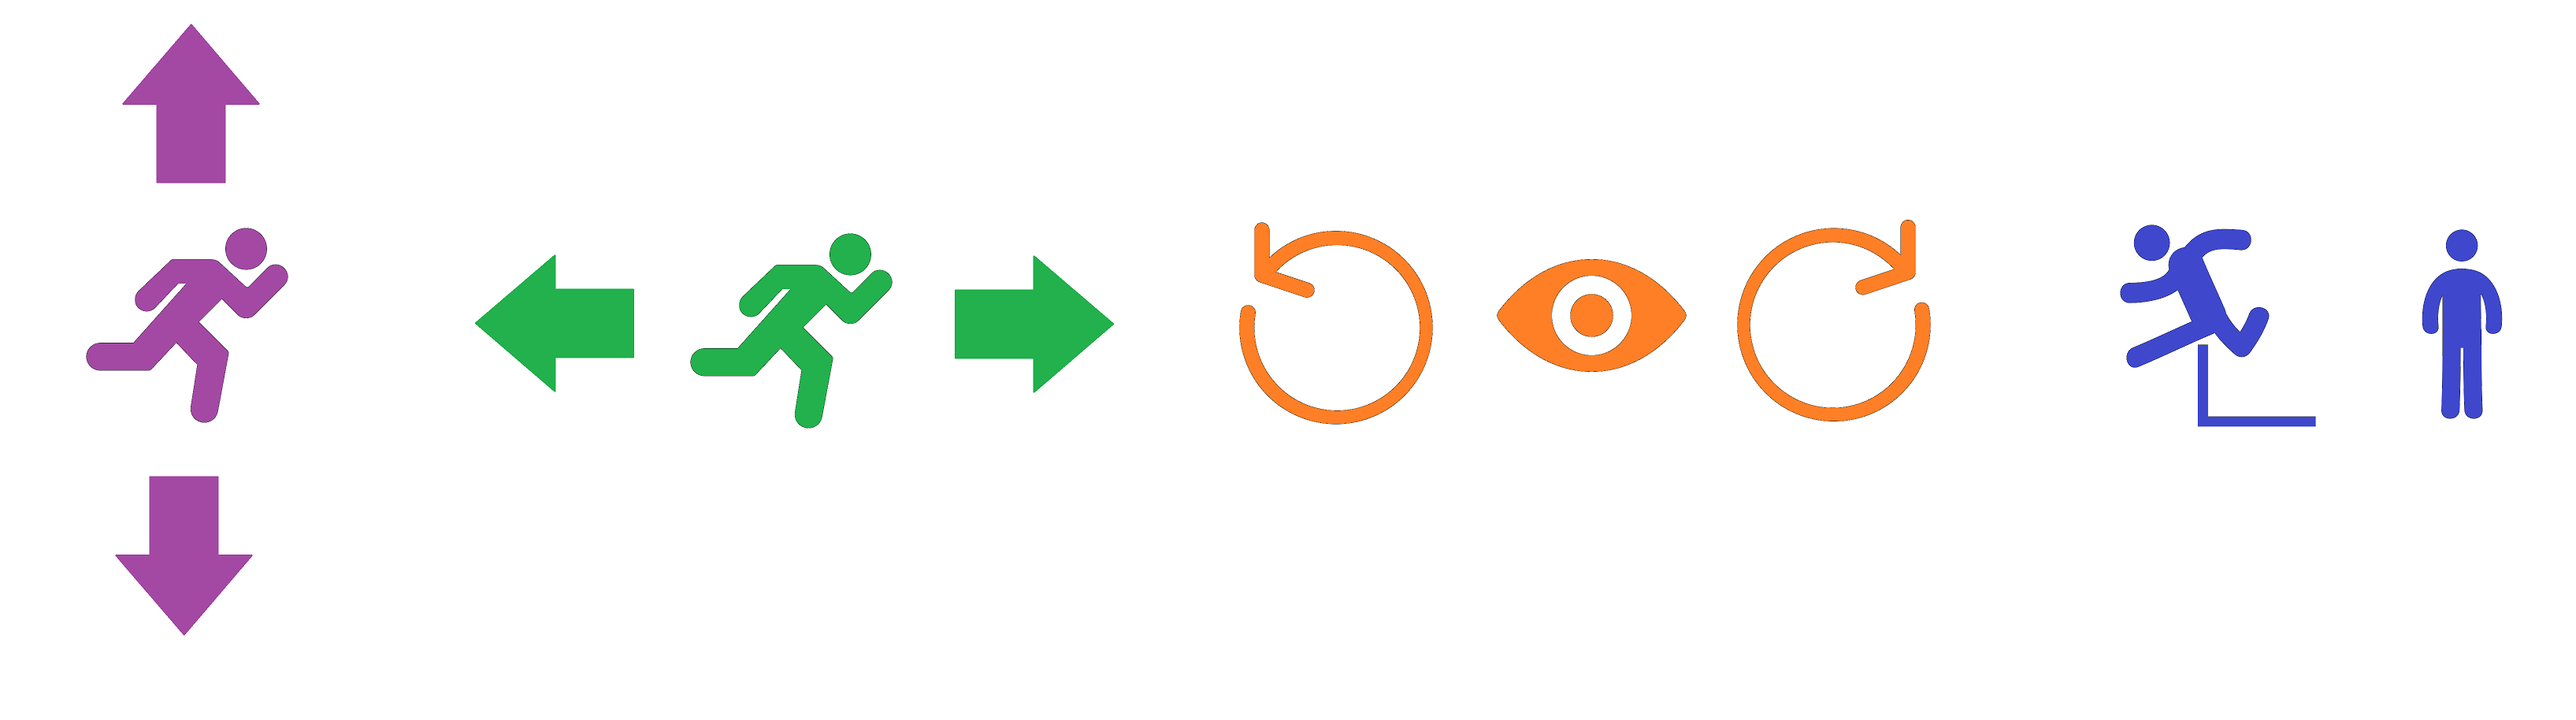
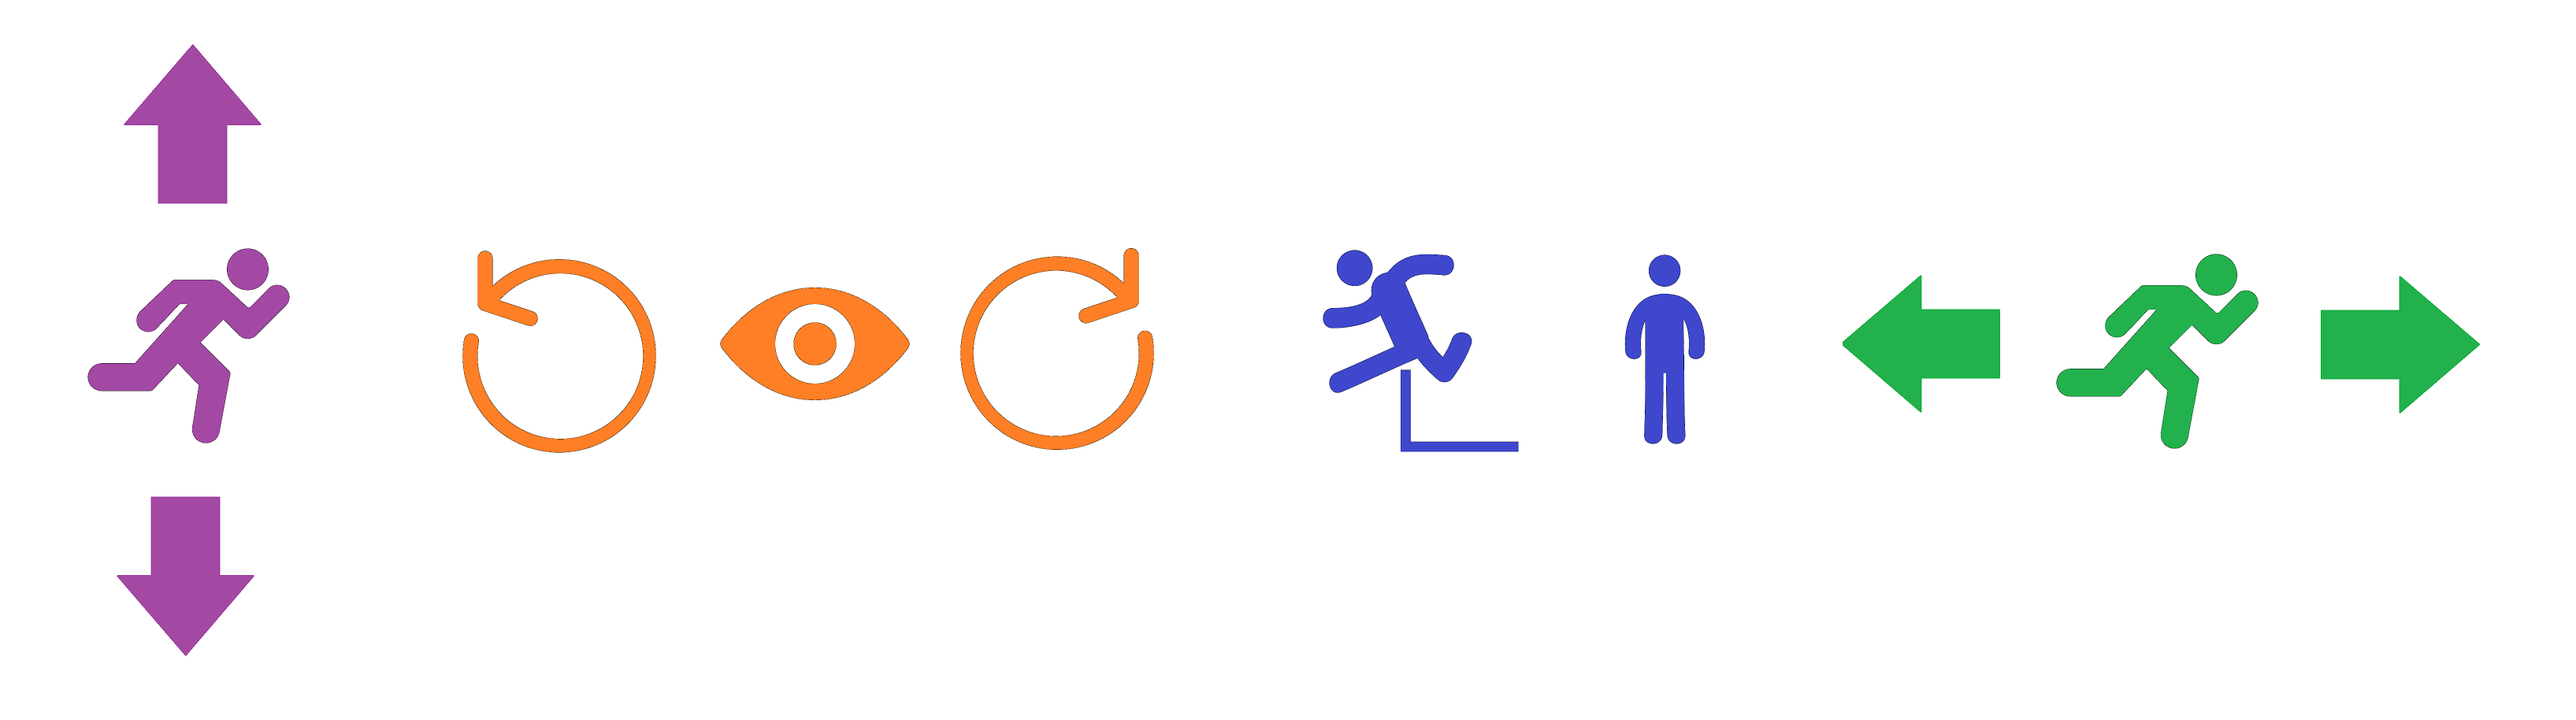
Add action interpreter to Obstacle Tower 3

diff --git a/assets/scripts/action_interpreter.js b/assets/scripts/action_interpreter.js
@@ -1,0 +1,68 @@
+// Used in 2019-01-31-obstacle-tower-3.md
+const ACTION_TO_DESCRIPTION = {
+    '0 0 0 0': 'Do nothing.',
+    '0 0 0 1': 'Move right.',
+    '0 0 0 2': 'Move left.',
+    '0 0 1 0': 'Jump.',
+    '0 0 1 1': 'Jump right.',
+    '0 0 1 2': 'Jump left.',
+    '0 1 0 0': 'Turn camera clockwise.',
+    '0 1 0 1': 'Turn camera clockwise while moving right.',
+    '0 1 0 2': 'Turn camera clockwise while moving left.',
+    '0 1 1 0': 'Turn camera clockwise while jumping.',
+    '0 1 1 1': 'Turn camera clockwise while jumping right.',
+    '0 1 1 2': 'Turn camera clockwise while jumping left.',
+    '0 2 0 0': 'Turn camera counterclockwise.',
+    '0 2 0 1': 'Turn camera counterclockwise while moving right.',
+    '0 2 0 2': 'Turn camera counterclockwise while moving left.',
+    '0 2 1 0': 'Turn camera counterclockwise while jumping.',
+    '0 2 1 1': 'Turn camera counterclockwise while jumping right.',
+    '0 2 1 2': 'Turn camera counterclockwise while jumping left.',
+    '1 0 0 0': 'Move forward.',
+    '1 0 0 1': 'Move forward right.',
+    '1 0 0 2': 'Move forward left.',
+    '1 0 1 0': 'Jump forward.',
+    '1 0 1 1': 'Jump forward right.',
+    '1 0 1 2': 'Jump forward left.',
+    '1 1 0 0': 'Turn camera clockwise while moving forward.',
+    '1 1 0 1': 'Turn camera clockwise while moving forward right.',
+    '1 1 0 2': 'Turn camera clockwise while moving forward left.',
+    '1 1 1 0': 'Turn camera clockwise while jumping forward.',
+    '1 1 1 1': 'Turn camera clockwise while jumping forward right.',
+    '1 1 1 2': 'Turn camera clockwise while jumping forward left.',
+    '1 2 0 0': 'Turn camera counterclockwise while moving forward.',
+    '1 2 0 1': 'Turn camera counterclockwise while moving forward right.',
+    '1 2 0 2': 'Turn camera counterclockwise while moving forward left.',
+    '1 2 1 0': 'Turn camera counterclockwise while jumping forward.',
+    '1 2 1 1': 'Turn camera counterclockwise while jumping forward right.',
+    '1 2 1 2': 'Turn camera counterclockwise while jumping forward left.',
+    '2 0 0 0': 'Move backward.',
+    '2 0 0 1': 'Move backward right.',
+    '2 0 0 2': 'Move backward left.',
+    '2 0 1 0': 'Jump backward.',
+    '2 0 1 1': 'Jump backward right.',
+    '2 0 1 2': 'Jump backward left.',
+    '2 1 0 0': 'Turn camera clockwise while moving backward.',
+    '2 1 0 1': 'Turn camera clockwise while moving backward right.',
+    '2 1 0 2': 'Turn camera clockwise while moving backward left.',
+    '2 1 1 0': 'Turn camera clockwise while jumping backward.',
+    '2 1 1 1': 'Turn camera clockwise while jumping backward right.',
+    '2 1 1 2': 'Turn camera clockwise while jumping backward left.',
+    '2 2 0 0': 'Turn camera counterclockwise while moving backward.',
+    '2 2 0 1': 'Turn camera counterclockwise while moving backward right.',
+    '2 2 0 2': 'Turn camera counterclockwise while moving backward left.',
+    '2 2 1 0': 'Turn camera counterclockwise while jumping backward.',
+    '2 2 1 1': 'Turn camera counterclockwise while jumping backward right.',
+    '2 2 1 2': 'Turn camera counterclockwise while jumping backward left.',
+}
+
+$( document ).ready(function() {
+    $('#action-interpreter').on('input', function(e) {
+        const actionText = $('#action-interpreter').val();
+        var description = "Wrong format: input should be four numbers. (ex: '0 0 0 0')";
+        if(actionText in ACTION_TO_DESCRIPTION) {
+            description = ACTION_TO_DESCRIPTION[actionText];
+        }
+        $('#action-interpretation').text(description);
+    });
+});

diff --git a/_includes/head.html b/_includes/head.html
@@ -76,6 +76,14 @@
   });
   </script>
 
+  {% for javascript in page.custom-js %}
+      <script src="{{ javascript }}"></script>
+  {% endfor %}
+
+  {% for css in page.custom-css %}
+    <link href="{{ css }}" rel="stylesheet">
+  {% endfor %}
+
   <!-- Material Design Lite css Library -->
   <!-- <link rel="stylesheet" href="https://code.getmdl.io/1.3.0/material.indigo-pink.min.css"> -->
   <link rel="stylesheet" href="https://code.getmdl.io/1.3.0/material.indigo-blue.min.css" />

diff --git a/_posts/obstacle-tower/2019-01-31-obstacle-tower-3.md b/_posts/obstacle-tower/2019-01-31-obstacle-tower-3.md
@@ -26,6 +26,11 @@ nav:
   permalink: '#retro-mode'
 - name: "What's Next?"
   permalink: '#whats-next'
+
+custom-js:
+- "/assets/scripts/jquery-3.3.1.min.js"
+- "/assets/scripts/action_interpreter.js"
+
 ---
 
 [In the last post](/obstacle-tower/2), we played the game ourselves and got a better understanding of the environment, as well as some insight on how a "good" agent might behave. Today, we will now check how the agent observes and acts inside this environment.
@@ -62,13 +67,52 @@ The auxiliary part is a vector that consists of two numbers: the number of keys 
 The action space of the Obstacle Tower consists of four "subspaces" (components):
 
 1. Moving forward or backward (or no-op)
-2. Moving left or right (or no-op)
-3. Turning camera counterclockwise or clockwise (or no-op)
-4. Jumping (or no-op)
+2. Turning camera counterclockwise or clockwise (or no-op)
+3. Jumping (or no-op)
+4. Moving left or right (or no-op)
 
-These subactions from subspaces can be combined in any way: for example, you can jump forward while turning the camera counterclockwise. In total, there are $3 \times 3 \times 3 \times 2 = 54$ combinations available.
+These subactions from subspaces can be combined in any way: for example, you can turn camera clockwise while jumping left. In total, there are $3 \times 3 \times 2 \times 3 = 54$ combinations available.
 
 Note that "forward", "backward", "left", "right" are all relative to the player's camera.
+
+For convenience, here is a simple Action Interpreter widget, with style borrowed from [crontab.guru](https://crontab.guru/):
+
+<style>
+  #action-interpreter-div {
+    margin-bottom: 1em;
+    margin-top: 1em;
+  }
+  #action-interpretation {
+    text-align: center;
+    font-size: 200%;
+    font-family: Georgia, serif;
+    min-height: 2.2em;
+    display: -ms-flexbox;
+    display: flex;
+    -ms-flex-pack: end;
+    justify-content: flex-end;
+    -ms-flex-line-pack: end;
+    align-content: flex-end;
+    -ms-flex-direction: column;
+    flex-direction: column;
+    margin-top: 0.5em;
+  }
+  #action-interpreter {
+    font-family: "Courier New", Courier, monospace;
+    text-align: center;
+    font-size: 250%;
+    width: 100%;
+    background-color: #333333;
+    border: 1px solid #cccccc;
+    border-radius: 0.6em;
+    color: #ffffff;
+    padding-top: 0.075rem;
+  }
+</style>
+<div id="action-interpreter-div">
+  <p id="action-interpretation">Do nothing.</p>
+  <input id="action-interpreter" type="text" value="0 0 0 0">
+</div>
 
 ## Retro Mode
 
